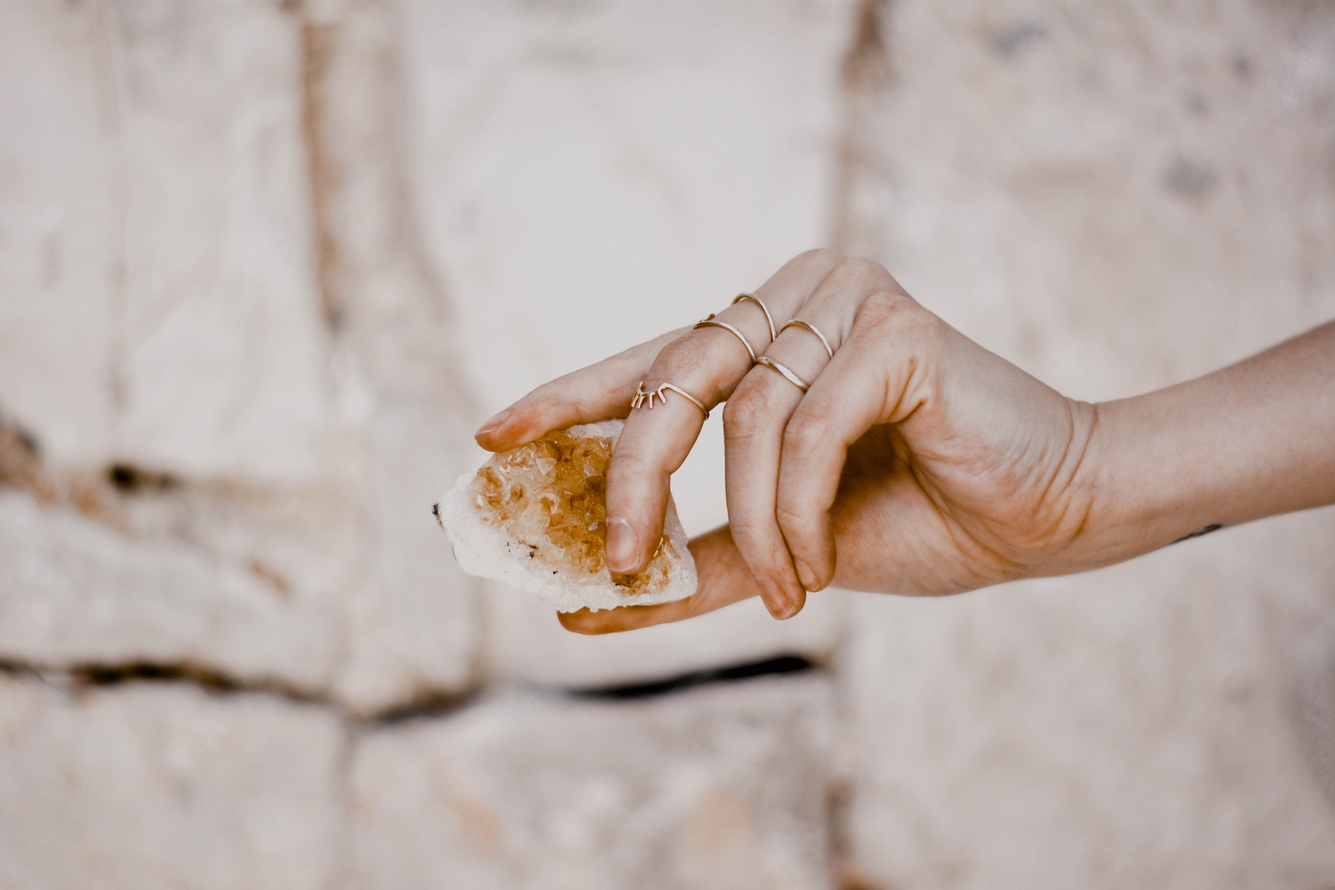
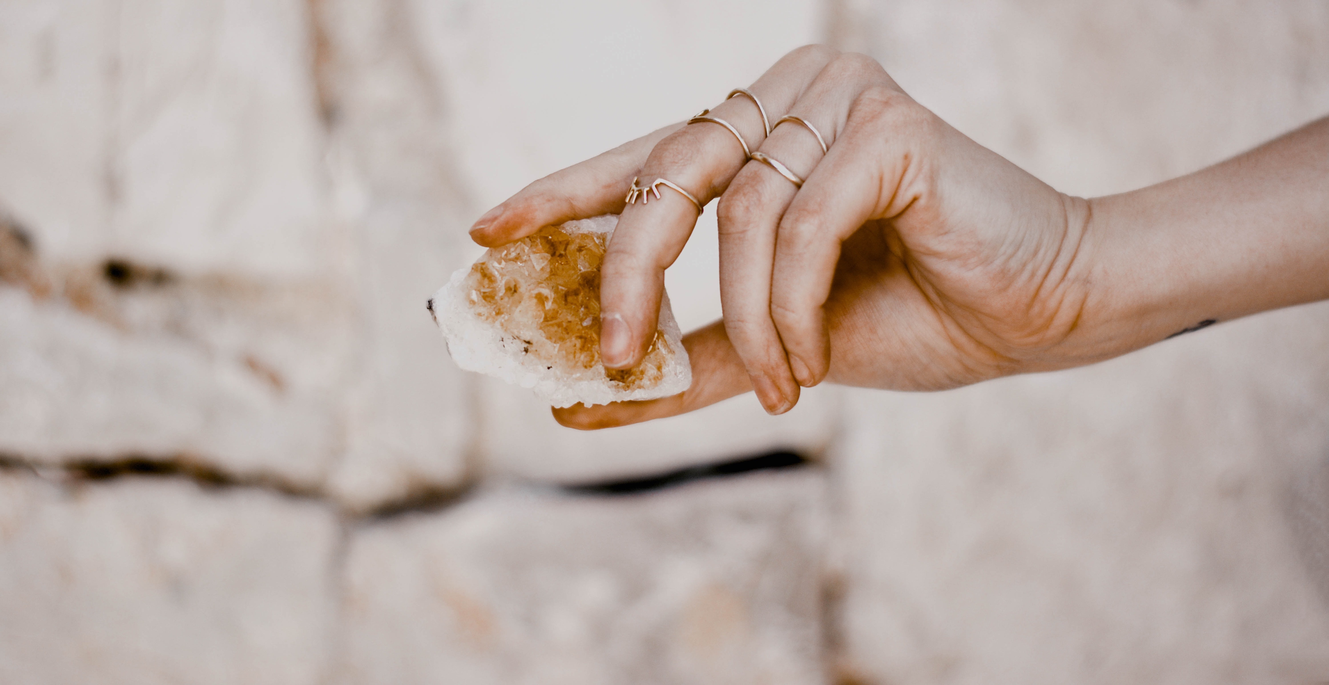
atualizando bootstrap

diff --git a/index.html b/index.html
@@ -14,10 +14,10 @@
     <body>
     <div class="container">
 
-     <!-- Barra de Navegação -->
-            <div class="row navega">
+<!-- Barra de Navegação -->
+            <div class="row navega fixed-top">
                 <nav class="navbar navbar-light ">
-                    <div class="container-fluid">
+                    <div class="container bg-white">
                     <h1 class="logo-text">Universo Mistico</h1>
 
                     <ul class="nav justify-content-center">
@@ -39,18 +39,15 @@
                 </nav>
             </div>
 
-     <!--Banner-->
+<!--Banner-->
 
-     <div id="carouselExampleInterval" class="carousel slide" data-bs-ride="carousel">
+     <div id="carouselExampleInterval" class="carousel" data-bs-ride="carousel" >
         <div class="carousel-inner">
           <div class="carousel-item active" data-bs-interval="3000">
-            <img src="img/mao-segurando.jpg" class="d-block w-100" alt="...">
-          </div>
-          <div class="carousel-item" data-bs-interval="3000">
-            <img src="img/Crystal Healing, meditation _ Beauty Stone Co.jpeg" class="d-block w-100" alt="...">
+            <img src="img/Crystal Healing, meditation _ Beauty Stone Co.jpeg" class="d-block w-100 " alt="...">
           </div>
           <div class="carousel-item">
-            <img src="img/Las mejores 700+ fotos de Incense · Descarga totalmente gratuita · Fotos de archivo de Pexels.png" class="d-block w-100" alt="...">
+            <img src="img/Las mejores 700+ fotos de Incense · Descarga totalmente gratuita · Fotos de archivo de Pexels.png" class="d-block w-100 " alt="...">
           </div>
         </div>
         <button class="carousel-control-prev" type="button" data-bs-target="#carouselExampleInterval" data-bs-slide="prev">
@@ -63,13 +60,21 @@
         </button>
       </div>
 
-     <!-- CARD DOS PRODUTOS -->
+
+<!--TEXTO EM DESTAQUE-->
+
+<h2 class="text-center text-destaque">ITENS EM DESTAQUE</h4>
+
+<!-- CARD DOS PRODUTOS -->
     <div class="row produtos">
         <div class="col-xs-12 col-sm-6 col-md-4 col-lg-3 col-xl-3">
             <img src="img/geodo-bruta.jpeg" class="img-fluid" alt="geodo">
             <h4 >Geodo Cristal</h4>
             <h5 >R$ 45,00</h5>
             <p > É um cristal que têm o poder de harmonizar as forças positivas e negativas que mantém o equilíbrio do universo.</p>
+            <button type="button" class="btn btn-light botao-comprar">
+                <a href="index.html">Comprar</a>
+            </button>
             
         </div>
 
@@ -78,8 +83,11 @@
             <h4 >Vela Dreem</h4>
             <h5 >R$ 55,00</h5>
             <p>É um cristal que têm o poder de harmonizar as forças positivas e negativas que mantém o equilíbrio do universo.</p>
-            
+            <button type="button" class="btn btn-light">
+                <a href="index.html">Comprar</a>
+            </button>
         </div>
+
 
 
         <div class="col-xs-12 col-sm-6 col-md-4 col-lg-3 col-xl-3">
@@ -87,7 +95,9 @@
             <h4 >Ametista</h4>
             <h5 >R$ 45,00</h5>
             <p >É um cristal que têm o poder de harmonizar as forças positivas e negativas que mantém o equilíbrio do universo.</p>
-            
+            <button type="button" class="btn btn-light">
+                <a href="index.html">Comprar</a>
+            </button>
         </div>
 
         <div class="col-xs-12 col-sm-6 col-md-4 col-lg-3 col-xl-3">
@@ -95,7 +105,9 @@
             <h4 >Vela Abundancia</h4>
             <h5 >R$ 55,00</h5>
             <p>É um cristal que têm o poder de harmonizar as forças positivas e negativas que mantém o equilíbrio do universo.</p>
-            
+            <button type="button" class="btn btn-light">
+                <a href="index.html">Comprar</a>
+            </button>
         </div>
 
         <div class="col-xs-12 col-sm-6 col-md-4 col-lg-3 col-xl-3">
@@ -103,7 +115,9 @@
             <h4 >Celestite Bruta</h4>
             <h5 >R$ 55,00</h5>
             <p>É um cristal que têm o poder de harmonizar as forças positivas e negativas que mantém o equilíbrio do universo.</p>
-            
+            <button type="button" class="btn btn-light">
+                <a href="index.html">Comprar</a>
+            </button>
         </div>
 
 
@@ -112,7 +126,9 @@
             <h4 >Vela High</h4>
             <h5 >R$ 55,00</h5>
             <p>É um cristal que têm o poder de harmonizar as forças positivas e negativas que mantém o equilíbrio do universo.</p>
-            
+            <button type="button" class="btn btn-light">
+                <a href="index.html">Comprar</a>
+            </button>
         </div>
 
         <div class="col-xs-12 col-sm-6 col-md-4 col-lg-3 col-xl-3">
@@ -120,7 +136,9 @@
             <h4 >Ametista Rosa</h4>
             <h5 >R$ 55,00</h5>
             <p>É um cristal que têm o poder de harmonizar as forças positivas e negativas que mantém o equilíbrio do universo.</p>
-            
+            <button type="button" class="btn btn-light">
+                <a href="index.html">Comprar</a>
+            </button>
         </div>
 
 
@@ -128,46 +146,33 @@
             <img src="img/vela-int.jpeg" class="img-fluid" alt="pedra bruta">
             <h4 >Vela Intenção</h4>
             <h5 >R$ 55,00</h5>
-            <p>É um cristal que têm o poder de harmonizar as forças positivas e negativas que mantém o equilíbrio do universo.</p>
-            
+            <p>É um cristal que têm o poder de harmonizar as forças positivas e negativas que mantém o equilíbrio do universo.</p>   
+            <button type="button" class="btn btn-light">
+                <a href="index.html">Comprar</a>
+            </button>
         </div>
-
-
-
-
 
     </div>
 
+<!--RODAPE-->
+    <div class="row rodape">
+        <div class="col">
+            <a class="dropdown-item w-25" href="#">Home</a>
+            <a class="dropdown-item w-25" href="#">Produtos</a>
+            <a class="dropdown-item w-25" href="#">Contato</a>
+          </div>
+          <div class="col">
+            <p>info@univeromistico.com</p>
+            <p>Av. Bernardino de Campos, 98 São Paulo - SP 12345-678</p>
+            <p>Tel: (11) 3456-7890 </p>
+          </div>
         
-    </div>  
-    <script src="https://cdn.jsdelivr.net/npm/bootstrap@5.1.1/dist/js/bootstrap.bundle.min.js" integrity="sha384-/bQdsTh/da6pkI1MST/rWKFNjaCP5gBSY4sEBT38Q/9RBh9AH40zEOg7Hlq2THRZ" crossorigin="anonymous"></script>
-    </body>
-    </html>
+    </div>
+
+        
+</div>  
+<script src="https://cdn.jsdelivr.net/npm/bootstrap@5.1.1/dist/js/bootstrap.bundle.min.js" integrity="sha384-/bQdsTh/da6pkI1MST/rWKFNjaCP5gBSY4sEBT38Q/9RBh9AH40zEOg7Hlq2THRZ" crossorigin="anonymous"></script>
+</body>
+</html>
 
 
-
-
-<!--
-<header class="cabecalho">
-    <h1>
-        <a href="index.html" title="universo mistico">Universo Mistico</a>
-    </h1>
-
-    <nav class="menu">
-        <ul class="nav-link">
-            <li><a href="#">Loja</a></li>
-            <li><a href="#">Produtoss</a>
-                <ul>
-                    <li>cristais</li>
-                    <li>velas</li>
-                </ul>
-            </li>
-            <li><a href="#">Quem Somos</a></li>
-        </ul>
-    </nav>   
-</header>
-
-<div >
-    <img class="image-center" src="img/foto-destaque1.jpeg" alt="imagens em destaque">
-</div>
--->

diff --git a/detal.html b/detal.html
@@ -1,88 +1,23 @@
+<div class="">
+    <img src="/img/mapa.png" class="img-fluid" alt="">
+    <h4>FRETE GRÁTIS</h4>
+    <h5>Confira Condições</h5>
+  </div>
 
-
-
-<div class="card" style="width: 18rem;">
-    <img src="img/vela-copo-rosa.jpg" class="card-img-top" alt="vela no copo">
-    <div class="card-body">
-        <h5 class="card-title">Vela Quartzo Rosa</h5>
-        <h5>R$ 50,00</h5>
-        <p class="card-text">Crie um espaço de consolo vibracional e intenção com as propriedades do cristal de quartzo rosa. Aninhada em uma mistura de cera de soja e coco cremosa e vegana, infundida com aromas incríveis que preenchem o ambiente, esta vela de declaração é o complemento perfeito para o seu ritual de autocuidado.
-        </p>
-        <a href="#" class="btn btn-primary">QUERO!</a>
+  <div class="">
+      <img src="/img/mapa.png" class="img-fluid" alt="">
+      <h4>ENVIAMOS</h4>
+      <h5>para todo o Brasil</h5>
     </div>
 
-
-<div class="card" style="width: 18rem;">
-    <img src="img/vela-copo-citrino.jpg" class="card-img-top" alt="vela no copo">
-    <div class="card-body">
-        <h5 class="card-title">Vela Citrino</h5>
-        <h5>R$ 50,00</h5>
-        <p class="card-text">Crie um espaço de consolo vibracional e intenção com as propriedades do cristal de quartzo rosa. Aninhada em uma mistura de cera de soja e coco cremosa e vegana, infundida com aromas incríveis que preenchem o ambiente, esta vela de declaração é o complemento perfeito para o seu ritual de autocuidado.
-        </p>
-        <a href="#" class="btn btn-primary">QUERO!</a>
+    <div class="">
+      <img src="/img/mapa.png" class="img-fluid" alt="">
+      <h4>ATÉ 12X SEM JUROS</h4>
+      <h5>10% Off no Boleto</h5>
     </div>
 
-
-<div class="card" style="width: 18rem;">
-    <img src="img/vela-copo-ame.jpg" class="card-img-top" alt="vela no copo">
-    <div class="card-body">
-        <h5 class="card-title">Vela Ametista</h5>
-        <h5>R$ 50,00</h5>
-        <p class="card-text">Crie um espaço de consolo vibracional e intenção com as propriedades do cristal de quartzo rosa. Aninhada em uma mistura de cera de soja e coco cremosa e vegana, infundida com aromas incríveis que preenchem o ambiente, esta vela de declaração é o complemento perfeito para o seu ritual de autocuidado.
-        </p>
-        <a href="#" class="btn btn-primary">QUERO!</a>
-    </div>
-
-
-
-
-<div class="card" style="width: 18rem;">
-    <img src="img/vela-palito-verde.jpeg" class="card-img-top" alt="vela palito">
-    <div class="card-body">
-        <h5 class="card-title">Vela Palito Verde</h5>
-        <h5>R$ 20,00</h5>
-        <p class="card-text">Velas verdes estão conectadas ao 4º Chacra, o Coração. Eles nos mostram o desejo do nosso verdadeiro coração e nos orientam a seguir o caminho da prosperidade. Verde é uma cor há muito associada a dinheiro, prosperidade e riqueza. </p>
-        <a href="#" class="btn btn-primary">QUERO!</a>
-    </div>
-
-
-
-
-
-
-
-<div class="card" style="width: 18rem;">
-    <img src="img/rolada-howlita.jpg" class="card-img-top" alt="pedra branca rolada">
-    <div class="card-body">
-        <h5 class="card-title">Howlita</h5>
-        <h5>R$ 20,00</h5>
-        <p class="card-text">A A Howlita é uma pedra de vibrações altamente calmantes e capazes de elevar nossos pensamento e sentimentos. </p>
-        <a href="#" class="btn btn-primary">QUERO!</a>
-    </div>
-
-    
-<div class="card" style="width: 18rem;">
-    <img src="img/rolada-obsidina.jpg" class="card-img-top" alt="pedra preta rolada">
-    <div class="card-body">
-        <h5 class="card-title">Obsidiana</h5>
-        <h5>R$ 20,00</h5>
-        <p class="card-text">A Obsidiana é extremamente protetora, que serve de escudo contra a negatividade.</p>
-        <a href="#" class="btn btn-primary">QUERO!</a>
-    </div>
-
-
-
-    <div class="col-xs-12 col-sm-6 col-md-4 col-lg-3 col-xl-3">
-        <img src="img/pirita-bruta.jpeg" class="img-fluid" alt="pedra pirita bruta">
-        <h4 >Pirita</h4>
-        <h5 >R$ 15,00</h5>
-        <p >Pirita é uma pedra cujo significado está associado à prosperidade e pode ser utilizada no ambiente de trabalho e na decoração para melhorar o fluxo de energia do ambiente</p>
-        
-    </div>
-
-    <div class="col-xs-12 col-sm-6 col-md-4 col-lg-3 col-xl-3">
-        <img src="img/vela-palito-roxa.jpeg" class="img-fluid" alt="vela palito">
-        <h4 class="card-text">Vela Roxa</h4>
-        <h5 class="card-text">R$ 25,00</h5>
-        <p class="card-text">Velas roxas, regidas por Júpiter, são associadas à alta magia. Como uma cor composta, o roxo combina o vermelho (paixão, fisicalidade) com o azul (sabedoria e intelecto). A integração desses opostos também é o objetivo do adepto da magia.</p>
+    <div class="">
+      <img src="/img/mapa.png" class="img-fluid" alt="">
+      <h4>100% SEGURO</h4>
+      <h5>Certificado SSL</h5>
     </div>

diff --git a/style.css b/style.css
@@ -1,42 +1,8 @@
-/** {
-    box-sizing: border-box; 
-    margin: 0;
-    padding: 0;
-}
-
-li, a {
-    font-weight: 500;
-    font-size: 16px;
-    color: black;
-    text-decoration: none;
-    list-style: none;
-}
-
-header {
-    display: flex;
-    justify-content: space-between;
-    align-items: center;
-    padding: 30px 10%
-}
-
-.nav-link li { 
-    display: inline-block;
-    padding: 0px 20px;
-}
-
-.image-center { 
-    height: 400px;
-    width: 300px;
-}
-
-*/
-.navega {
-    margin-top: 40px;
-}
 
 .produtos {
-    margin-top: 65px;
+    margin-top: 30px;
 }
+
 .logo-text {
     color: #8B7B8B;
 
@@ -61,3 +27,31 @@ h5 {
     color: #8B7B8B;
 }
 
+.carousel {
+    margin-top: 135px;
+
+}
+
+.text-destaque {
+    margin-top: 80px;
+    font-size: 22px;
+    color:  #8B7B8B;
+}
+
+.rodape {
+    margin-top: 55px;
+    margin-bottom: 100px;
+    padding-top:10px;
+    background-color: #8B7B8B;
+}
+
+
+
+.botao-comprar {
+    margin-bottom: 20px;
+}
+
+a {
+    color: black;
+    text-decoration: none;
+}
